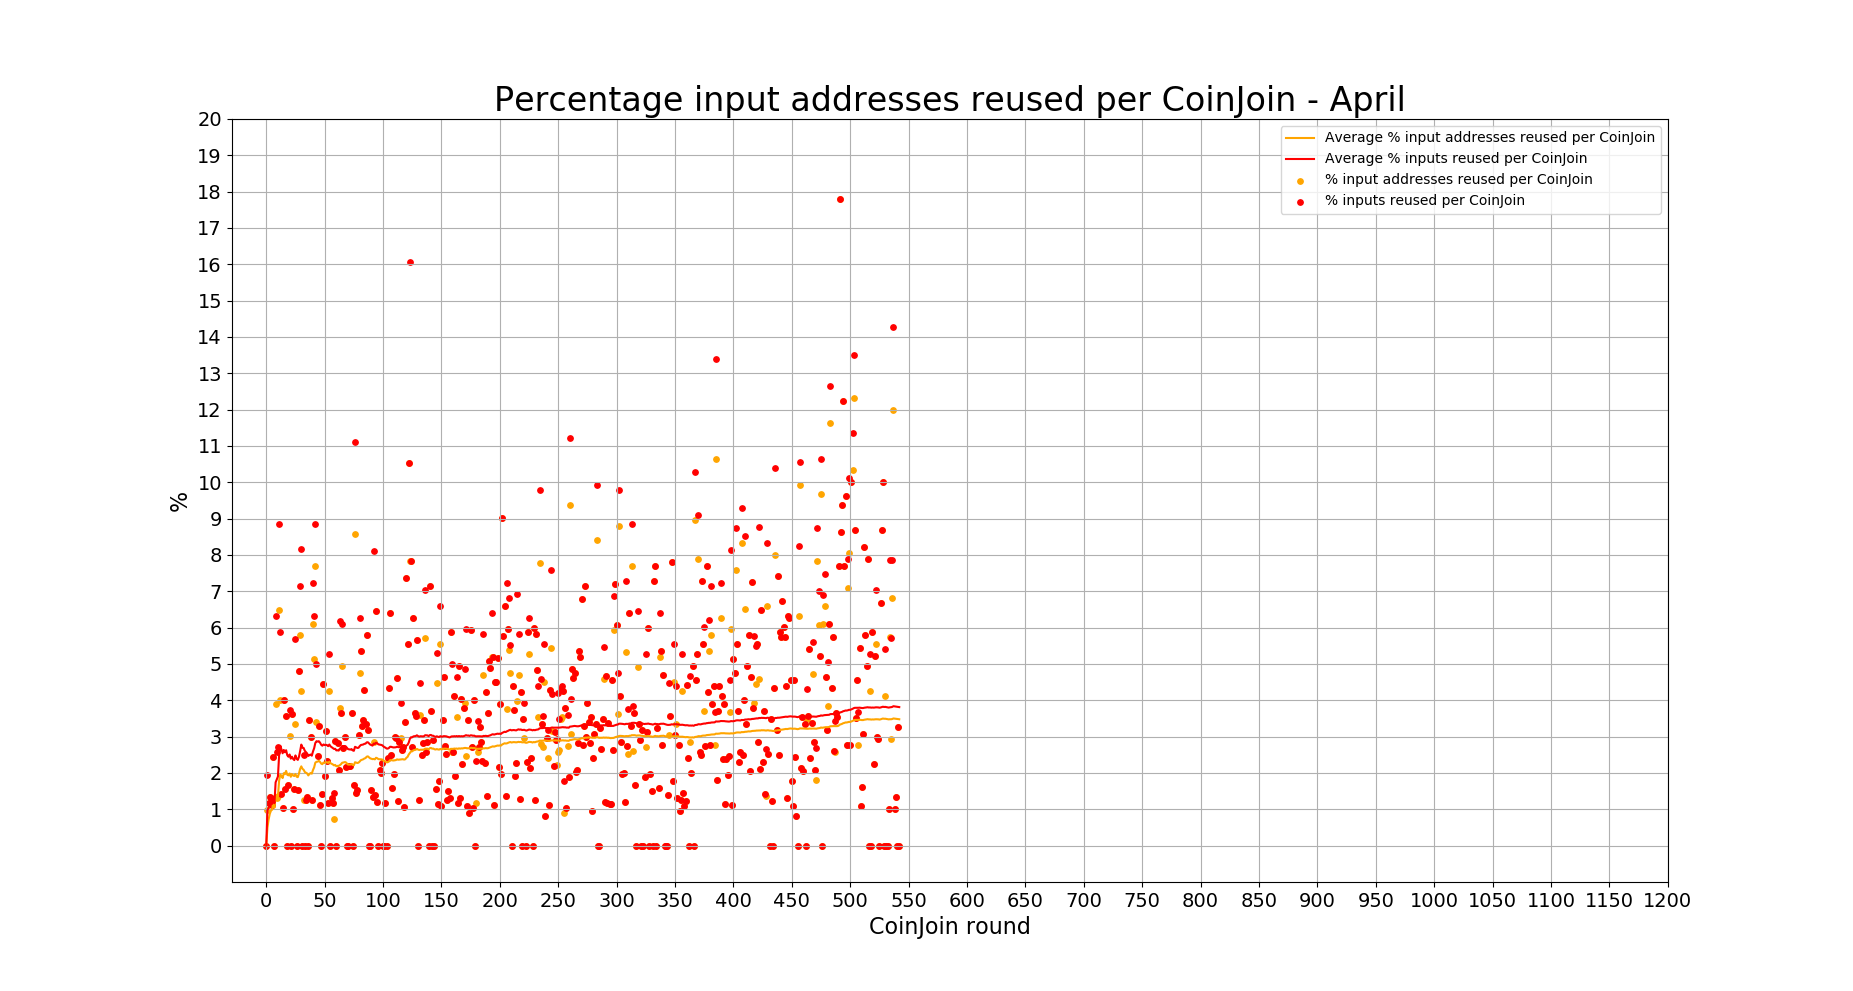
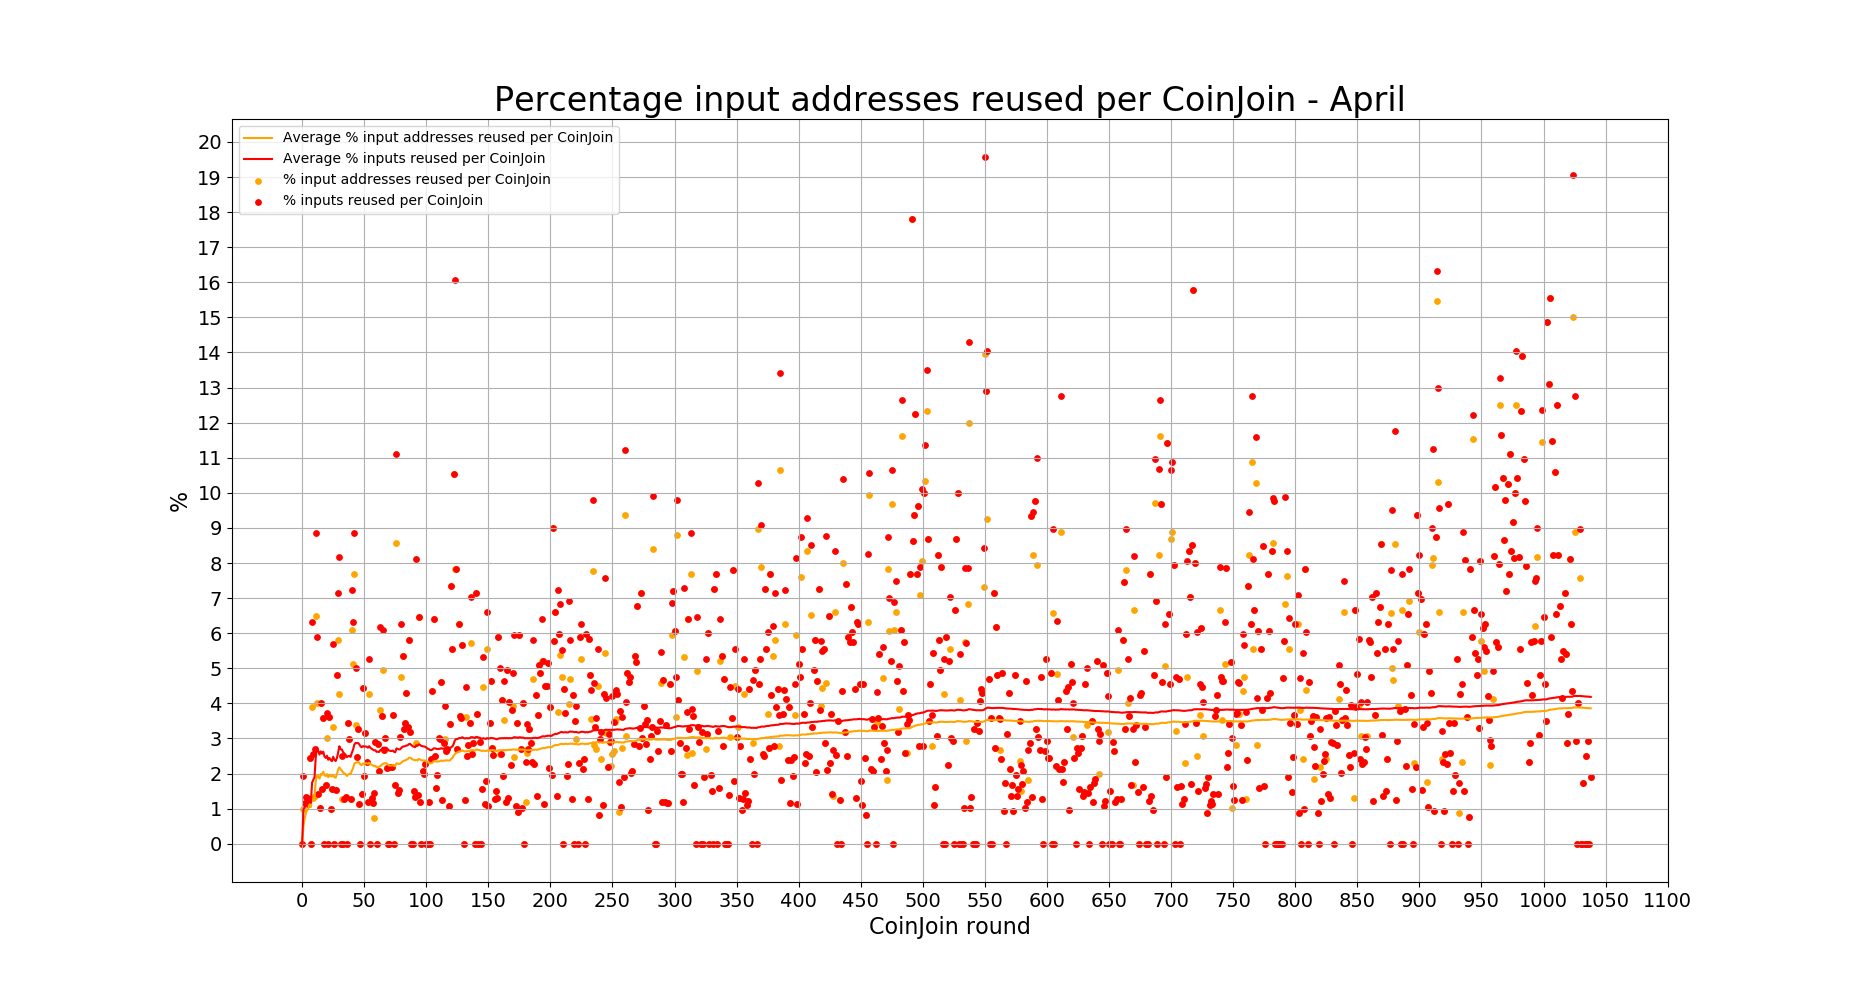
April update

diff --git a/README.md b/README.md
@@ -8,22 +8,22 @@
 
 A list of statistics of the Wasabi Wallet's trustless CoinJoin implementation.
 
-For a more deep explanation of every stats, including how to calculate them and where to find them, give a look at the [Don't Trust, Verify](Dont_Trust_Verify.md) section. 
+For a more deep explanation of every stats, including how to calculate them and where to find them, give a look at the [Don't Trust, Verify](Dont_Trust_Verify.md) section.
 
 For stats about the previous months, look [here](months_list.md).
 
 ### About Wasabi
 
-* *Site*: https://www.wasabiwallet.io/ 
+* *Site*: https://www.wasabiwallet.io/
 * *Onion site*: http://wasabiukrxmkdgve5kynjztuovbg43uxcbcxn6y2okcrsg7gb6jdmbad.onion
-* *Documentation*: https://docs.wasabiwallet.io/ 
+* *Documentation*: https://docs.wasabiwallet.io/
 * *GitHub*: https://github.com/zkSNACKs/WalletWasabi
 * *Research Club*: https://github.com/zkSNACKs/WasabiResearchClub
 
 ---
 
-## April - from block 623837 to 626183
-**543 CoinJoin round**
+## April - from block 623837 to 628349
+**1039 CoinJoin round**
 
 ---
 
@@ -34,29 +34,29 @@ For stats about the previous months, look [here](months_list.md).
 
 **Last values:**
 
-* Blue line = 36.2
+* Blue line = 34.6
 
 #### [Partecipants per CoinJoin](Dont_Trust_Verify.md#partecipants-per-coinjoin)
 ![partecipants_per_CoinJoin](2020/April/partecipants_per_CoinJoin.png)
 
 **Last values:**
 
-* Blue line = 62.5
+* Blue line = 62.2
 
 #### [Average input size per CoinJoin](Dont_Trust_Verify.md#average-input-size-per-coinjoin)
 ![average_input_size_per_CoinJoin](2020/April/average_input_size_per_CoinJoin.png)
 
 **Last values:**
 
-* Blue line = 0.82
+* Blue line = 0.55
 
 #### [Total volume](Dont_Trust_Verify.md#total-volume)
 ![total_volume](2020/April/total_volume.png)
 
 **Last values:**
 
-* Green line = 36840
-* Blue line = 10770
+* Green line = 47006
+* Blue line = 17356
 
 ### INPUTS
 
@@ -65,42 +65,42 @@ For stats about the previous months, look [here](months_list.md).
 
 **Last values:**
 
-* Orange line = 1204
-* Red line = 2878
-* Light blue line = 15651
-* Green line = 44099
-* Blue line = 45773
+* Orange line = 2218
+* Red line = 5700
+* Light blue line = 31022
+* Green line = 82189
+* Blue line = 85671
 
 #### [Percentage remixers per CoinJoin](Dont_Trust_Verify.md#percentage-remixers-per-coinjoin)
 ![percentage_remixers_per_CoinJoin](2020/April/percentage_remixers_per_CoinJoin.png)
 
 **Last values:**
 
-* Blue line = 35
+* Blue line = 37.6
 
 #### [Total percentage remixers](Dont_Trust_Verify.md#total-percentage-remixers)
 ![total_percentage_remixers](2020/April/total_percentage_remixers.png)
 
 **Last values:**
 
-* Green line = 35.5
-* Blue line = 34.2
+* Green line = 37.7
+* Blue line = 36.2
 
 #### [Percentage address reuse per CoinJoin](Dont_Trust_Verify.md#percentage-address-reuse-per-coinjoin)
 ![percentage_address_reuse_per_CoinJoin](2020/April/percentage_address_reuse_per_CoinJoin.png)
 
 **Last values:**
 
-* Orange line = 3.47
-* Red line = 3.81
+* Orange line = 3.86
+* Red line = 4.18
 
 #### [Total percentage address reuse](Dont_Trust_Verify.md#total-percentage-address-reuse)
 ![total_percentage_address_reuse](2020/April/total_percentage_address_reuse.png)
 
 **Last values:**
 
-* Orange line = 2.73
-* Red line = 6.29
+* Orange line = 2.7
+* Red line = 6.65
 
 ### EQUAL OUTPUTS
 
@@ -109,10 +109,10 @@ For stats about the previous months, look [here](months_list.md).
 
 **Last values:**
 
-* Orange line = 1525
-* Red line = 3552
-* Green line = 48655
-* Blue line = 50682
+* Orange line = 2601
+* Red line = 6375
+* Green line = 89184
+* Blue line = 92958
 
 #### [Percentage equal outputs reused per CoinJoin](Dont_Trust_Verify.md#percentage-equal-outputs-reused-per-coinjoin)
 ![percentage_equal_outputs_reused_per_CoinJoin](2020/April/percentage_equal_outputs_reused_per_CoinJoin.png)
@@ -126,8 +126,8 @@ For stats about the previous months, look [here](months_list.md).
 
 **Last values:**
 
-* Orange line = 3.13
-* Red line = 7.01
+* Orange line = 2.91
+* Red line = 6.85
 
 ---
 
